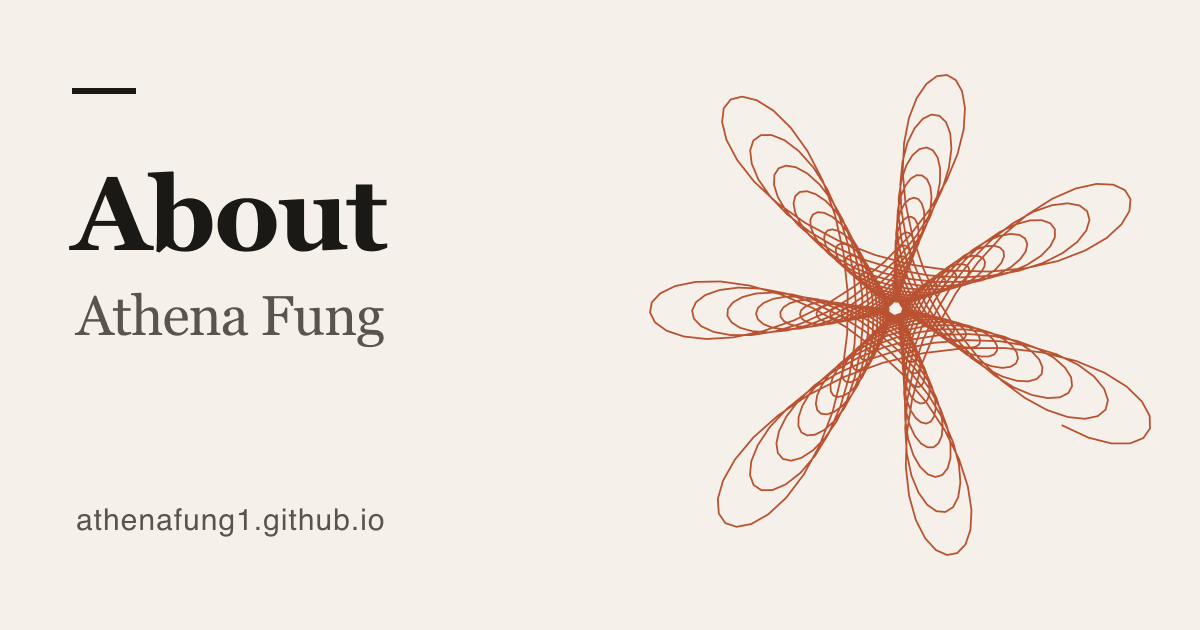
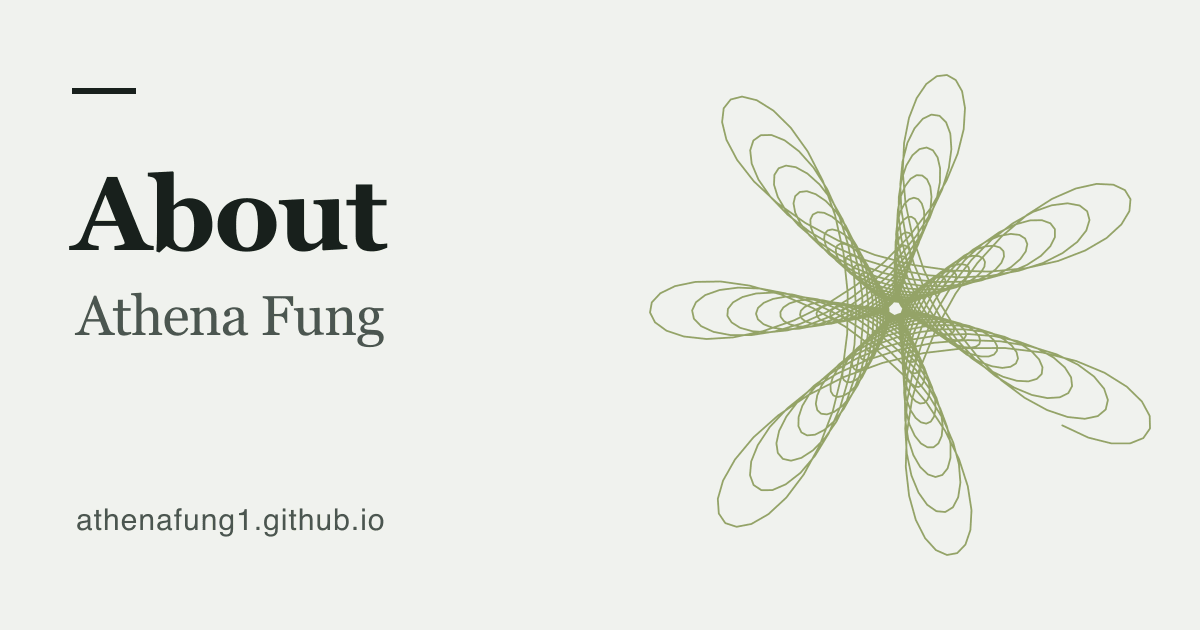
update color and typography: #899A59 accent, IBM Plex Sans Condensed

diff --git a/src/styles/tokens.css b/src/styles/tokens.css
@@ -6,21 +6,26 @@
     /* Follow the device unless the visitor picked a theme (data-theme set by the head script). */
     color-scheme: light dark;
 
-    /* Color: defined once with light-dark(). Contrast checked for WCAG 2.1 AA in both themes
-       (text ≥ 15:1, muted ≥ 6.5:1, accent ≥ 5:1, UI borders and focus ≥ 3:1). */
-    --color-bg: light-dark(#f5f1ea, #121110);
-    --color-surface: light-dark(#fffcf7, #1c1a17);
-    --color-text: light-dark(#1b1915, #efe9df);
-    --color-muted: light-dark(#5a554c, #aaa296);
-    --color-accent: light-dark(#b3401d, #ff8d63);
-    --color-accent-ink: light-dark(#ffffff, #1b0f0a);
-    --color-border: light-dark(#8f877a, #7a7268);
-    --color-rule: light-dark(#ddd6ca, #35312b);
+    /* Color: sage on cool grey paper, defined once with light-dark(). Contrast checked for WCAG 2.1
+       AA in both themes (text ≥ 13:1, muted ≥ 6.5:1, accent ≥ 4.5:1, UI borders and focus ≥ 3:1).
+       --color-curve is the sage itself, #899A59: the curves, the site mark, link underlines and
+       margin-note rules. On the light paper it is only 2.7:1, too faint for text, so green text
+       uses --color-accent, a darker olive of the same hue. */
+    --color-bg: light-dark(#f0f2ee, #1f2421);
+    --color-surface: light-dark(#f9faf8, #272d29);
+    --color-text: light-dark(#18201c, #ecefea);
+    --color-muted: light-dark(#4b5650, #b1bab1);
+    --color-accent: light-dark(#5f6b3e, #899a59);
+    --color-accent-ink: light-dark(#ffffff, #1b221d);
+    --color-border: light-dark(#7d8881, #838c84);
+    --color-rule: light-dark(#d3d9d3, #39413b);
     --color-focus: light-dark(#1f4ed8, #8fb0ff);
-    --color-curve: light-dark(#b3401d, #ff8d63);
+    --color-curve: light-dark(#899a59, #899a59);
 
-    /* Type: Astro's Fonts API defines --font-display and --font-text (with metric-matched
-       fallbacks). Fluid steps scale linearly from 320px to 1280px viewports. */
+    /* Type: one family, IBM Plex Sans Condensed, for headings and text. Astro's Fonts API defines
+       --font-text (with metric-matched fallbacks); --font-display names the same face so headings
+       keep their own variable. Fluid steps scale linearly from 320px to 1280px viewports. */
+    --font-display: var(--font-text);
     --step--1: clamp(0.833rem, 0.81rem + 0.12vw, 0.9rem);
     --step-0: clamp(1rem, 0.958rem + 0.21vw, 1.125rem);
     --step-1: clamp(1.2rem, 1.117rem + 0.42vw, 1.45rem);

diff --git a/src/styles/base.css b/src/styles/base.css
@@ -74,7 +74,6 @@
     font-family: var(--font-display);
     font-weight: 600;
     line-height: var(--leading-snug);
-    letter-spacing: -0.01em;
     text-wrap: balance;
     overflow-wrap: anywhere;
     hyphens: auto;
@@ -102,7 +101,7 @@
 
   a {
     color: inherit;
-    text-decoration-color: var(--color-accent);
+    text-decoration-color: var(--color-curve);
     text-decoration-thickness: 0.08em;
     text-underline-offset: 0.18em;
     transition: color var(--dur-fast) var(--ease), text-decoration-color var(--dur-fast) var(--ease);
@@ -141,13 +140,13 @@
     transform: none;
   }
 
-  /* Small caps + tabular figures: the "engineering" label voice without a third family. */
+  /* Medium weight + tabular figures: the label voice, in the same family as everything else. */
   .label {
     font-family: var(--font-text);
     font-size: var(--step--1);
+    font-weight: 500;
     font-variant-numeric: tabular-nums;
-    font-variant-caps: all-small-caps;
-    letter-spacing: 0.06em;
+    letter-spacing: 0.01em;
     color: var(--color-muted);
   }
 
@@ -263,7 +262,7 @@
     display: block;
     margin-block: var(--space-xs);
     padding-inline-start: var(--space-s);
-    border-inline-start: 2px solid var(--color-accent);
+    border-inline-start: 2px solid var(--color-curve);
     font-size: var(--step--1);
     line-height: 1.5;
     color: var(--color-muted);
@@ -311,7 +310,7 @@
       height: 5px;
       margin-inline-start: -2.5px;
       border-radius: 50%;
-      background: var(--color-accent);
+      background: var(--color-curve);
     }
   }
 }

diff --git a/src/scripts/eggs.ts b/src/scripts/eggs.ts
@@ -81,6 +81,6 @@ for (const egg of active) {
 // A hello for anyone who opens the developer console.
 console.info(
   '%cHi, curious engineer.%c\nThis site is plain HTML from Astro, with Svelte only where things move.\nSource: https://github.com/athenafung1/athenafung1.github.io\nPsst: try ↑ ↑ ↓ ↓ ← → ← → B A.',
-  'font: 600 14px/1.4 Georgia, serif; color: #b3401d',
+  'font: 600 14px/1.4 Georgia, serif; color: #899a59',
   'font: 12px/1.5 system-ui, sans-serif',
 );

diff --git a/src/islands/FourierSketch.svelte b/src/islands/FourierSketch.svelte
@@ -38,7 +38,7 @@
   let raf = 0;
   let onScreen = true;
   let ctx: CanvasRenderingContext2D | null = null;
-  let colors = { accent: '#b3401d', muted: '#5a554c', rule: '#ddd6ca' };
+  let colors = { accent: '#5f6b3e', muted: '#4b5650', rule: '#d3d9d3' };
 
   function loadShape(points: Point[], id: string, label: string, autoplay: boolean) {
     const fitted = normalizeToViewBox(points, WIDTH, HEIGHT, 56).map((p) => ({ x: p.x - WIDTH / 2, y: p.y - HEIGHT / 2 }));
